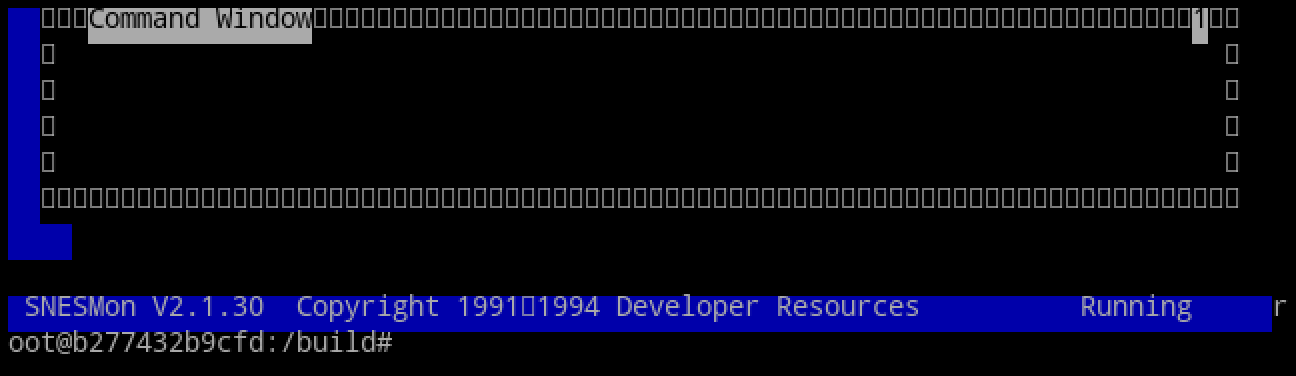
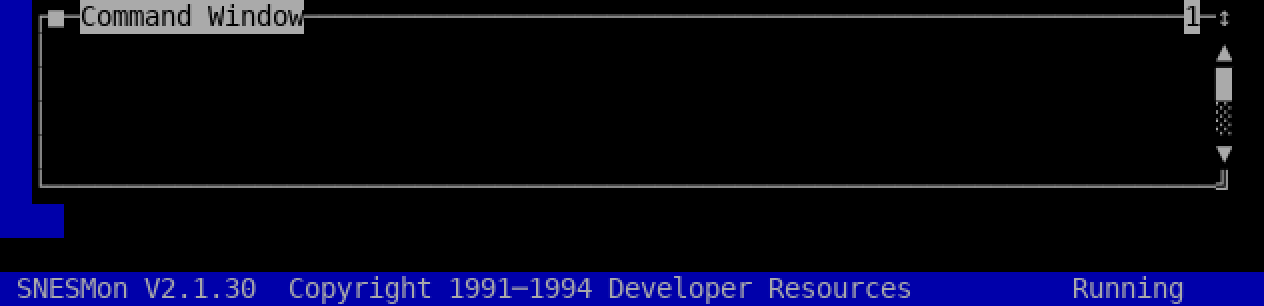
docs(drmon): fix window screenshots — borders, trimming, add Project Info + About
render_ansi.py: switch NotoMono → DejaVuSansMono (NotoMono uses its missing-
glyph □ for every box-drawing character); crop to window bounding box by
detecting desktop background from row-1-col-0 and finding the non-desktop
region in the content area (rows 1..n-2), so each PNG shows just the window
rather than the full 80×25 terminal.

Manual: split "Project Info · About" into two separate entries, each with a
screenshot. 14 images total (added about.png, projectinfo.png).

diff --git a/devsys/tools/drmon/linux/render_ansi.py b/devsys/tools/drmon/linux/render_ansi.py
@@ -3,43 +3,47 @@
 
 Usage: render_ansi.py input.ansi output.png [scale]
   scale: pixel multiplier (default 2 for crisp 2x rendering)
+
+Trims to the window bounding box by detecting the desktop background colour
+from the top-left cell of the content area (row 1, col 0), then cropping to
+the smallest rectangle of non-desktop cells in rows 1..(n-2), skipping the
+menu bar (row 0) and status bar (last row).
 """
-import sys, re
+import sys
 from PIL import Image, ImageDraw, ImageFont
+
+FONT_PATH = "/usr/share/fonts/truetype/dejavu/DejaVuSansMono.ttf"
+FONT_SIZE = 14
 
 # Standard 16-colour ANSI palette (CGA-compatible)
 PALETTE = [
-    (0,0,0),       (170,0,0),     (0,170,0),     (170,170,0),
-    (0,0,170),     (170,0,170),   (0,170,170),    (170,170,170),
-    (85,85,85),    (255,85,85),   (85,255,85),    (255,255,85),
-    (85,85,255),   (255,85,255),  (85,255,255),   (255,255,255),
+    (0, 0, 0),      (170, 0, 0),    (0, 170, 0),    (170, 170, 0),
+    (0, 0, 170),    (170, 0, 170),  (0, 170, 170),  (170, 170, 170),
+    (85, 85, 85),   (255, 85, 85),  (85, 255, 85),  (255, 255, 85),
+    (85, 85, 255),  (255, 85, 255), (85, 255, 255), (255, 255, 255),
 ]
 DEFAULT_FG = PALETTE[7]
 DEFAULT_BG = PALETTE[0]
 
 
 def parse_ansi(text):
-    """Parse ANSI-escaped terminal text.
-    Returns a list of rows; each row is a list of (char, fg_rgb, bg_rgb).
+    """Parse ANSI-escaped terminal text into a grid.
+    Returns list of rows; each row is a list of (char, fg_rgb, bg_rgb).
     """
-    rows = []
-    row = []
+    rows, row = [], []
     fg, bg, bold = DEFAULT_FG, DEFAULT_BG, False
-
     i = 0
     while i < len(text):
         c = text[i]
-
-        if c == '\x1b' and i + 1 < len(text) and text[i+1] == '[':
-            # CSI sequence — find the final byte
+        if c == '\x1b' and i + 1 < len(text) and text[i + 1] == '[':
             j = i + 2
             while j < len(text) and (text[j].isdigit() or text[j] == ';'):
                 j += 1
             if j < len(text):
-                final = text[j]
-                params_str = text[i+2:j]
-                if final == 'm':
-                    parts = [int(x) if x else 0 for x in params_str.split(';')] if params_str else [0]
+                params_str = text[i + 2:j]
+                if text[j] == 'm':
+                    parts = ([int(x) if x else 0 for x in params_str.split(';')]
+                             if params_str else [0])
                     for p in parts:
                         if p == 0:
                             fg, bg, bold = DEFAULT_FG, DEFAULT_BG, False
@@ -63,64 +67,25 @@ def parse_ansi(text):
                 continue
             i += 1
             continue
-
         if c == '\x1b':
-            # Non-CSI ESC sequence — skip next char
             i += 2
             continue
-
         if c == '\r':
             i += 1
             continue
-
         if c == '\n':
             rows.append(row)
             row = []
             i += 1
             continue
-
         row.append((c, fg, bg))
         i += 1
-
     if row:
         rows.append(row)
     return rows
 
 
-def is_blank_row(row, desktop_bg):
-    return all(bg == desktop_bg and ch in (' ', '') for ch, fg, bg in row)
-
-
-def trim_rows(rows, desktop_bg):
-    """Remove leading and trailing rows that are entirely desktop_bg."""
-    first, last = 0, len(rows)
-    while first < last and is_blank_row(rows[first], desktop_bg):
-        first += 1
-    while last > first and is_blank_row(rows[last - 1], desktop_bg):
-        last -= 1
-    return rows[first:last]
-
-
-def trim_cols(rows):
-    """Remove leading and trailing columns that are entirely default BG."""
-    if not rows:
-        return rows
-    max_cols = max(len(r) for r in rows)
-    # pad to uniform width
-    padded = [r + [(' ', DEFAULT_FG, DEFAULT_BG)] * (max_cols - len(r)) for r in rows]
-
-    first_col = 0
-    while first_col < max_cols and all(bg == DEFAULT_BG and ch == ' ' for ch, fg, bg in [r[first_col] for r in padded]):
-        first_col += 1
-
-    last_col = max_cols
-    while last_col > first_col and all(bg == DEFAULT_BG and ch == ' ' for ch, fg, bg in [r[last_col-1] for r in padded]):
-        last_col -= 1
-
-    return [r[first_col:last_col] for r in padded]
-
-
-def render(ansi_file, out_file, scale=2, pad=4):
+def render(ansi_file, out_file, scale=2):
     with open(ansi_file, 'r', encoding='utf-8', errors='replace') as f:
         text = f.read()
 
@@ -129,60 +94,61 @@ def render(ansi_file, out_file, scale=2, pad=4):
         print(f"  {ansi_file}: no content, skipping")
         return
 
-    # Determine the desktop background: most-common bg in the last row
-    # (status bar or blank desktop row)
-    last_row = rows[-1] if rows else []
-    bg_counts = {}
-    for _, _, bg in last_row:
-        bg_counts[bg] = bg_counts.get(bg, 0) + 1
-    desktop_bg = max(bg_counts, key=bg_counts.get) if bg_counts else DEFAULT_BG
+    font = ImageFont.truetype(FONT_PATH, FONT_SIZE)
+    ascent, descent = font.getmetrics()
+    cell_h = ascent + descent
+    cell_w = round(font.getlength("M"))
 
-    rows = trim_rows(rows, desktop_bg)
-    if not rows:
-        print(f"  {ansi_file}: all blank after trim, skipping")
-        return
+    # Normalise all rows to the same column count
+    n_cols = max((len(r) for r in rows), default=80)
+    desktop_bg = rows[1][0][2] if len(rows) > 1 and rows[1] else DEFAULT_BG
+    padded = [list(r) + [(' ', DEFAULT_FG, desktop_bg)] * (n_cols - len(r))
+              for r in rows]
 
-    font_path = "/usr/share/fonts/truetype/noto/NotoMono-Regular.ttf"
-    base_size = 14
-    font = ImageFont.truetype(font_path, base_size)
+    # Find the bounding box of non-desktop cells, ignoring menu bar (row 0)
+    # and status bar (last row) so we crop to just the open window.
+    r1 = r2 = c1 = c2 = None
+    for ri in range(1, len(padded) - 1):
+        for ci in range(n_cols):
+            if padded[ri][ci][2] != desktop_bg:
+                if r1 is None:
+                    r1 = ri
+                r2 = ri
+                if c1 is None or ci < c1:
+                    c1 = ci
+                if c2 is None or ci > c2:
+                    c2 = ci
 
-    # Measure a single cell using 'M' (should be monospaced)
-    bbox = font.getbbox("M")
-    cell_w = bbox[2] - bbox[0]
-    cell_h = int(base_size * 1.35)      # line height with a bit of leading
-    baseline_off = -bbox[1]             # positive offset to correct for ascender
+    if r1 is None:
+        # No window open — fall back to full content area
+        r1, r2, c1, c2 = 1, len(padded) - 2, 0, n_cols - 1
 
-    # Normalise rows to same column count
-    n_cols = max(len(r) for r in rows)
-    for r in rows:
-        while len(r) < n_cols:
-            r.append((' ', DEFAULT_FG, desktop_bg))
+    crop = [padded[ri][c1:c2 + 1] for ri in range(r1, r2 + 1)]
+    n_rows = len(crop)
+    n_cols_out = c2 - c1 + 1
 
-    n_rows = len(rows)
-    w = n_cols * cell_w + pad * 2
-    h = n_rows * cell_h + pad * 2
-
-    img = Image.new("RGB", (w, h), desktop_bg)
+    img = Image.new("RGB", (n_cols_out * cell_w, n_rows * cell_h), desktop_bg)
     draw = ImageDraw.Draw(img)
 
-    for ri, row in enumerate(rows):
+    for ri, row in enumerate(crop):
         for ci, (ch, fg, bg) in enumerate(row):
-            x = pad + ci * cell_w
-            y = pad + ri * cell_h
+            x = ci * cell_w
+            y = ri * cell_h
             draw.rectangle([x, y, x + cell_w, y + cell_h], fill=bg)
-            if ch and ch != ' ':
-                draw.text((x, y + baseline_off), ch, font=font, fill=fg)
+            if ch != ' ':
+                # default anchor "la" (left-ascender): top of the em-square at y
+                draw.text((x, y), ch, font=font, fill=fg)
 
     if scale != 1:
         img = img.resize((img.width * scale, img.height * scale), Image.NEAREST)
 
     img.save(out_file)
-    print(f"  {ansi_file} → {out_file}  ({n_cols}×{n_rows} cells, {img.width}×{img.height}px)")
+    print(f"  {ansi_file} → {out_file}  ({n_cols_out}×{n_rows} cells, "
+          f"{img.width}×{img.height}px)")
 
 
 if __name__ == '__main__':
     if len(sys.argv) < 3:
         print(f"Usage: {sys.argv[0]} input.ansi output.png [scale]")
         sys.exit(1)
-    scale = int(sys.argv[3]) if len(sys.argv) > 3 else 2
-    render(sys.argv[1], sys.argv[2], scale=scale)
+    render(sys.argv[1], sys.argv[2], scale=int(sys.argv[3]) if len(sys.argv) > 3 else 2)

diff --git a/devsys/tools/drmon/docs/drmon-manual.md b/devsys/tools/drmon/docs/drmon-manual.md
@@ -172,8 +172,15 @@ A reference table of character codes (decimal / hex / the CP437 glyph).
 
 <img src="img/ascii.png" width="700">
 
-### Project Info — `Alt+I` (single) · About — `Alt+A`
-Project Info shows free memory and symbol counts; About shows version and credits.
+### Project Info — `Alt+I` (single)
+Shows free memory and symbol counts.
+
+<img src="img/projectinfo.png" width="700">
+
+### About — `Alt+A`
+Shows version and credits.
+
+<img src="img/about.png" width="700">
 
 ### Help — `F1`
 The built-in `snesmon.hlp` key card, shown in a Text View window.
